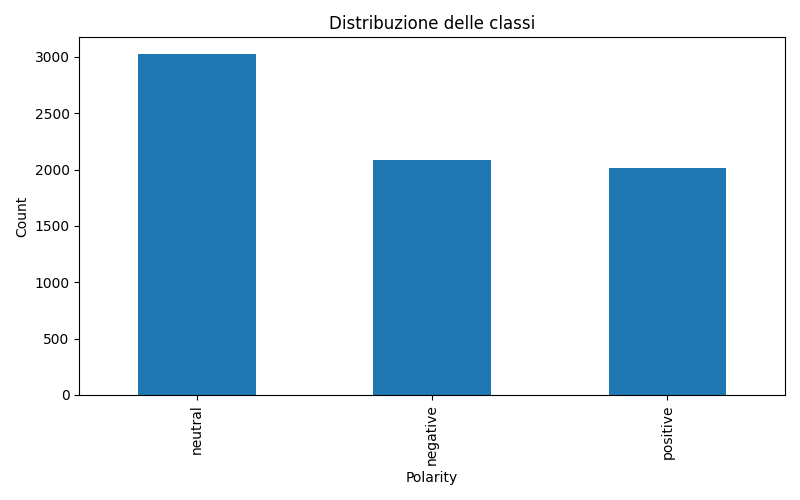
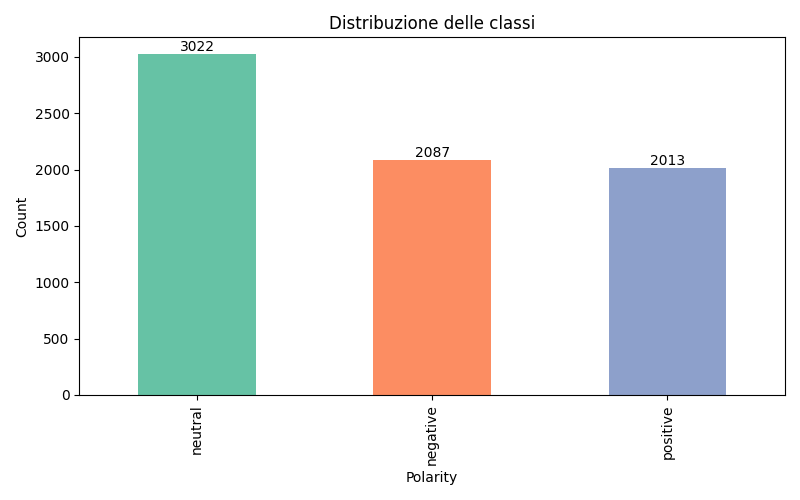
grafici

Changed region(s): [[0.1562, 0.06, 0.3438, 0.81], [0.4688, 0.27, 0.625, 0.81], [0.75, 0.3, 0.9062, 0.81]]

diff --git a/GitHub/dataset_originale/analisi_esplorativa.py b/GitHub/dataset_originale/analisi_esplorativa.py
@@ -74,11 +74,23 @@ distribution_df.to_csv(output_path / "class_distribution.csv")
 # Grafico distribuzione delle classi
 plt.figure(figsize=(8, 5))
 
-class_counts.plot(kind="bar")
+ax = class_counts.plot(
+    kind="bar",
+    color=plt.cm.Set2(range(len(class_counts)))  # colori diversi
+)
 
 plt.title("Distribuzione delle classi")
 plt.xlabel("Polarity")
 plt.ylabel("Count")
+
+for p in ax.patches:  # valori sopra le barre
+    ax.annotate(
+        str(int(p.get_height())),
+        (p.get_x() + p.get_width() / 2, p.get_height()),
+        ha="center",
+        va="bottom",
+        fontsize=10
+    )
 
 plt.tight_layout()
 
@@ -172,11 +184,23 @@ class_length_stats.to_csv(
 # Grafico lunghezza media del testo per classe
 plt.figure(figsize=(8, 5))
 
-class_length_stats.plot(kind="bar")
+ax = class_length_stats.plot(
+    kind="bar",
+    color=plt.cm.tab10(range(len(class_length_stats)))  # colori diversi
+)
 
 plt.title("Lunghezza media del testo per classe")
 plt.xlabel("Polarity")
 plt.ylabel("Lunghezza media (caratteri)")
+
+for p in ax.patches:  # valori sopra le barre
+    ax.annotate(
+        f"{int(round(p.get_height()))}",
+        (p.get_x() + p.get_width() / 2, p.get_height()),
+        ha="center",
+        va="bottom",
+        fontsize=10
+    )
 
 plt.tight_layout()
 
